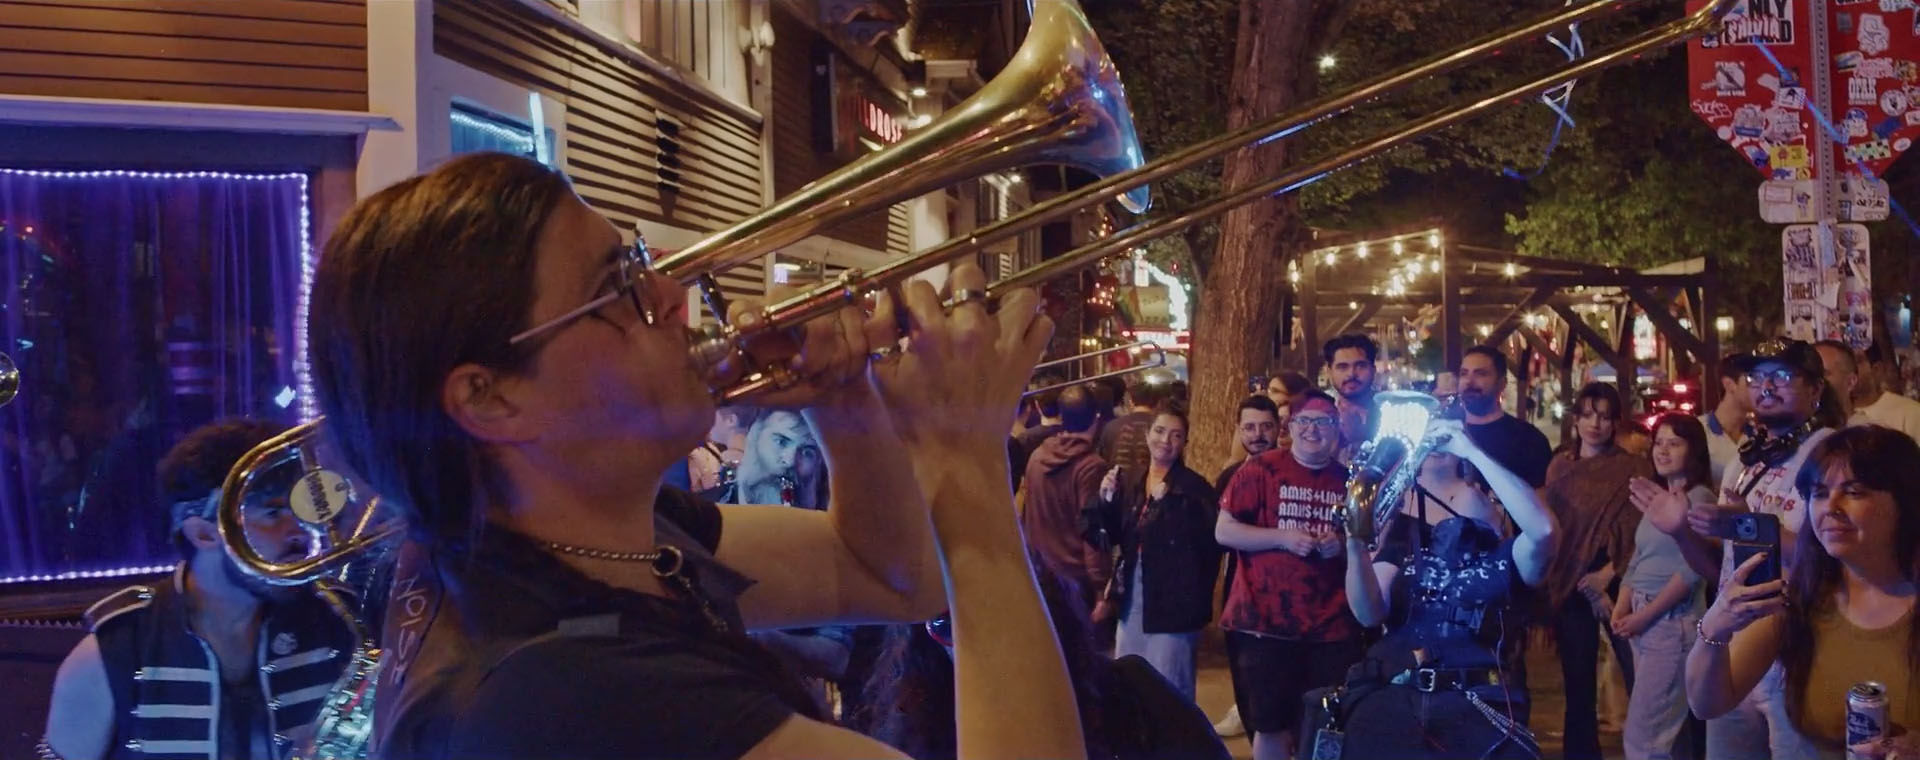
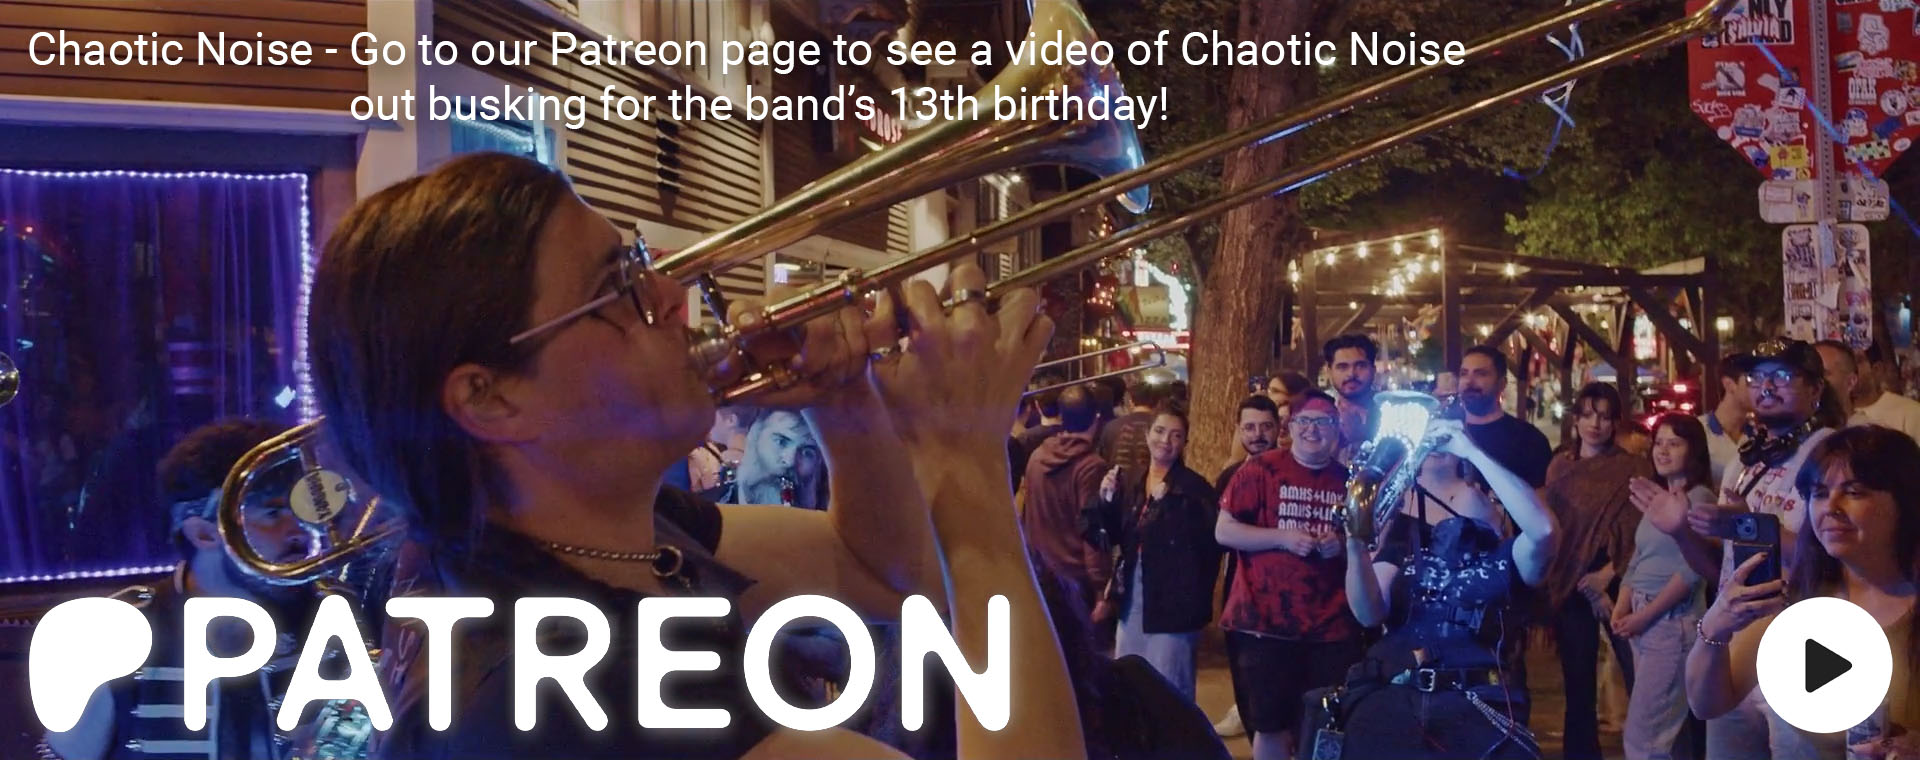
updated patreon thumbnail and link text

Changed region(s): [[0.0, 0.7566, 0.5312, 0.9684], [0.0, 0.0303, 0.7812, 0.1816], [0.9062, 0.7868, 1.0, 0.9987]]

diff --git a/index.html b/index.html
@@ -134,9 +134,9 @@
 
 <div class="hover-container">
 <a href="https://www.patreon.com/posts/happy-13th-to-us-131535292" target="_blank" rel="noopener noreferrer">
-    <img src="images/20250606_Chaotic_13th_Birthday_play.jpg" alt="Chaotic Noise 13th Birthday" title="Chaotic Noise 13th Birthday">
+    <img src="images/20250606_Chaotic_13th_Birthday.jpg" alt="Chaotic Noise 13th Birthday" title="Chaotic Noise 13th Birthday">
 <div class="hover-text">
-Go to our Patreon to see a video of Chaotic Noise out for the band's 13th birthday!
+Go to the Chaotic Noise Patreon page!
 </div></a></div>
 
 <iframe src="https://www.youtube.com/embed/iwLNO_lTrjI" width="80%" height="45%" style="aspect-ratio: 16/9;" frameborder="0" allowfullscreen title="Chaotic Noise @ Equinox Studios Xmas Open House 2022"></iframe>
